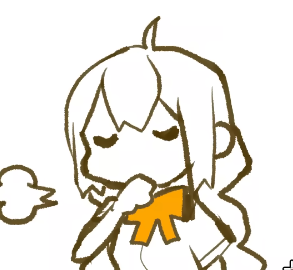
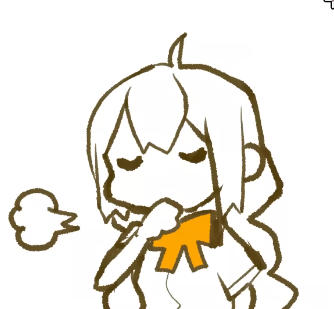
always cook...

Changed region(s): [[0.0, 0.0593, 0.9215, 1.0], [0.9522, 0.9481, 1.0, 1.0], [0.9522, 0.0, 1.0, 0.0296]]

diff --git a/frontend/src/app/page.tsx b/frontend/src/app/page.tsx
@@ -1,5 +1,6 @@
 "use client"
 
+import ProjectCard from "@/components/project_card";
 import Shell from "@/components/shell";
 import Mandelbrot from "@/components/vfx/mandelbrot";
 import Winter from "@/components/vfx/winter";
@@ -43,21 +44,23 @@ export default function Home() {
         // </div>
         <div style={{ width: '100%', height: '100%', background: '#253237' }}>
         <Parallax ref={parallax} pages={4}>
-            <ParallaxLayer offset={1} factor={3} speed={1} style={{ backgroundColor: '#805E73' }} />
+            <ParallaxLayer offset={1} factor={3} speed={1} style={{ backgroundColor: '#3b3b3b' }} />
+            <ParallaxLayer offset={2} speed={1} onClick={() => parallax.current.scrollTo(0)} />
             <ParallaxLayer offset={3} speed={1} style={{ backgroundColor: '#87BCDE' }} />
-
+           
             <ParallaxLayer
             offset={0}
             speed={0}
-            factor={3}
+            factor={3.25}
             style={{
-                backgroundImage: "stars.svg",
+                backgroundImage: "url(stars.svg)",
                 backgroundSize: 'cover',
             }}
-            />
-
+            / >
+            
+            {/* Github floating thingy */}
             <ParallaxLayer 
-                offset={1.3} 
+                offset={0.7} 
                 speed={-0.3} 
                 style={{ width: '10%', height: '5%', marginLeft: '70%', cursor: "pointer", zIndex: 99 }}  
                 >
@@ -102,18 +105,6 @@ export default function Home() {
             </ParallaxLayer>
 
             <ParallaxLayer
-                offset={3.3}
-                speed={-0.4}
-                style={{
-                    display: 'flex',
-                    alignItems: 'center',
-                    justifyContent: 'center',
-                    pointerEvents: 'none',
-                }}>
-                <img src={"akaricough.png"} style={{ width: '30%' }} />
-            </ParallaxLayer>
-
-            <ParallaxLayer
                 offset={2}
                 speed={-0.3}
                 style={{
@@ -123,6 +114,7 @@ export default function Home() {
                 }}
             />
 
+            {/* Intro */}
             <ParallaxLayer
                 offset={0}
                 speed={0.1}
@@ -141,11 +133,21 @@ export default function Home() {
                     <img src={"vercel.svg"} style={{ width: '20%' }} />
                     <h1 
                         className="pt-8 text-center text-7xl font-semibold">
-                        YO dfdfdf asfasfsafsa
+                        Hey, it's nioon
                     </h1>
                 </div>
             </ParallaxLayer>
 
+            <ParallaxLayer
+                offset={0}
+                speed={0.9}
+                style={{
+                    pointerEvents: 'none',
+            }}>
+                <img src={"akaricough.png"} style={{ display: 'block', width: '20%', marginLeft: '70%' , marginTop: '10%' }} />
+            </ParallaxLayer>
+            
+            {/* Projects */}
             <ParallaxLayer
                 offset={1}
                 speed={0.1}
@@ -157,22 +159,47 @@ export default function Home() {
                 }}>
                 {/* <img src={"next.svg"} style={{ width: '40%' }} /> */}
                 <h1 
-                    className="text-center text-7xl font-semibold text-black">
-                    SOME STUFF IVE DONE..
+                    className="text-center text-7xl font-semibold">
+                    Some stuff I've done:
                 </h1>
             </ParallaxLayer>
 
+            <ParallaxLayer offset={1} speed={2}>
+            <ProjectCard
+                title="LaTeX (yea ok)"
+                imageUrl="demo.gif"
+                technologies={['nasm', 'cpp', 'Tailwind']}
+                projectLink="https://example.com/project"
+                githubLink="https://github.com/username/project"
+                maxWidth={400}
+            />
+            </ParallaxLayer>
+            
+            {/* Socials */}
             <ParallaxLayer
-                offset={2}
-                speed={-0}
+                offset={3}
+                speed={0.1}
+                onClick={() => parallax.current.scrollTo(2)}
                 style={{
                     display: 'flex',
                     alignItems: 'center',
                     justifyContent: 'center',
-                }}
-                onClick={() => parallax.current.scrollTo(0)}
+                }}>
+                <h1 
+                    className="text-center text-6xl font-semibold text-gray-700 underline">
+                    You can find me on
+                </h1>
+            </ParallaxLayer>
+
+            <ParallaxLayer 
+                offset={4} 
+                speed={-0.3} 
+                style={{ width: '10%', height: '5%', marginLeft: '70%', cursor: "pointer", zIndex: 99 }}  
                 >
-                {/* <img src={"file.svg"} style={{ width: '40%' }} /> */}
+            <img 
+                onClick={() => window.location.href = "https://discord.com/users/381851699763216386"} 
+                src={"icons/discord.svg"} 
+                />
             </ParallaxLayer>
         </Parallax>
     </div>

diff --git a/frontend/src/components/project_card.tsx b/frontend/src/components/project_card.tsx
@@ -1,1 +1,106 @@
-type Language = "Java" | "Rust" | "Javascript";
+import React, { useState } from 'react';
+
+interface ProjectCardProps {
+  title: string;
+  imageUrl: string;
+  technologies?: string[];
+  projectLink?: string;
+  githubLink?: string;
+  // for tailwind stuff
+  widthClass?: string;
+  maxWidth?: number;
+}
+
+const ProjectCard: React.FC<ProjectCardProps> = ({ 
+  title,
+  imageUrl,
+  technologies = [],
+  projectLink,
+  githubLink,
+  widthClass = 'w-full sm:w-2/3 md:w-1/2 lg:w-2/3',
+  maxWidth = 480
+}) => {
+  const [isHovered, setIsHovered] = useState<boolean>(false);
+  
+  return (
+    <div 
+      className={`relative rounded-lg border-2 border-gray-300 transition-all duration-300 hover:shadow-xl bg-gray-800 group ${widthClass}`}
+      style={{ maxWidth: `${maxWidth}px` }}
+      onMouseEnter={() => setIsHovered(true)}
+      onMouseLeave={() => setIsHovered(false)}
+    >
+      {/* Technology icons */}
+      {technologies.length > 0 && (
+        <div className="absolute left-3 flex z-20" style={{ top: 0, transform: 'translateY(-50%)' }}>
+          {technologies.map((tech, index) => (
+            <div 
+              key={tech} 
+              className="rounded-full bg-white bg-opacity-90 shadow-md flex items-center justify-center border border-gray-300 transition-transform group-hover:scale-110 w-8 h-8 md:w-10 md:h-10"
+              style={{ marginLeft: index === 0 ? 0 : '0.75rem' }}
+            >
+              <img 
+                src={`/icons/${tech.toLowerCase()}.svg`} 
+                alt={tech} 
+                title={tech}
+                className="w-5 h-5 md:w-6 md:h-6"
+              />
+            </div>
+          ))}
+        </div>
+      )}
+      
+      {/* image/gif */}
+      <div className="w-full overflow-hidden bg-gray-100">
+        <img 
+          src={imageUrl} 
+          alt={title} 
+          className="w-full h-auto object-contain transition-transform duration-500 group-hover:scale-105"
+        />
+      </div>
+      
+      {/* Additional context on hover */}
+      <div 
+        className={`absolute inset-0 bg-gradient-to-b from-black/70 to-black/50 text-white flex flex-col justify-center transition-opacity duration-300 overflow-auto p-3 md:p-6 ${
+          isHovered ? 'opacity-100' : 'opacity-0 pointer-events-none'
+        }`}
+      >
+        <p className="text-lg md:text-xl text-white font-semibold">{title}</p>
+        <div className="flex flex-wrap gap-2 mt-3 md:mt-4">
+          {projectLink && (
+            <a 
+              href={projectLink} 
+              target="_blank" 
+              rel="noopener noreferrer"
+              className="bg-white text-black rounded-md font-medium hover:bg-gray-200 transition-colors duration-300 flex items-center text-sm md:text-base px-2 py-1 md:px-4 md:py-2"
+            >
+              <span>Check it out!</span>
+              <svg 
+                className="ml-1 w-4 h-4" 
+                fill="none" 
+                stroke="currentColor" 
+                viewBox="0 0 24 24" 
+                xmlns="http://www.w3.org/2000/svg"
+              >
+                <path strokeLinecap="round" strokeLinejoin="round" strokeWidth={2} d="M10 6H6a2 2 0 00-2 2v10a2 2 0 002 2h10a2 2 0 002-2v-4M14 4h6m0 0v6m0-6L10 14" />
+              </svg>
+            </a>
+          )}
+          
+          {githubLink && (
+            <a 
+              href={githubLink} 
+              target="_blank" 
+              rel="noopener noreferrer"
+              className="bg-gray-800 text-white rounded-md font-medium hover:bg-gray-700 transition-colors duration-300 flex items-center text-sm md:text-base px-2 py-1 md:px-4 md:py-2"
+            >
+              <span>See the code</span>
+              <img className="ml-1 w-4 h-4" src="icons/github-white.svg" />
+            </a>
+          )}
+        </div>
+      </div>
+    </div>
+  );
+};
+
+export default ProjectCard;

diff --git a/frontend/src/app/layout.tsx b/frontend/src/app/layout.tsx
@@ -1,6 +1,7 @@
 import type { Metadata } from "next";
 import { Geist, Geist_Mono } from "next/font/google";
 import "./globals.css";
+import { Raleway } from 'next/font/google';
 
 const geistSans = Geist({
   variable: "--font-geist-sans",
@@ -10,6 +11,12 @@ const geistSans = Geist({
 const geistMono = Geist_Mono({
   variable: "--font-geist-mono",
   subsets: ["latin"],
+});
+
+const raleway = Raleway({
+  variable: "--font-raleway-sans",
+  subsets: ["latin"],
+  display: 'swap',
 });
 
 export const metadata: Metadata = {
@@ -25,7 +32,7 @@ export default function RootLayout({
   return (
     <html lang="en">
       <body
-        className={`${geistSans.variable} ${geistMono.variable} antialiased`}
+        className={`${raleway.variable} antialiased`}
       >
         {children}
       </body>
